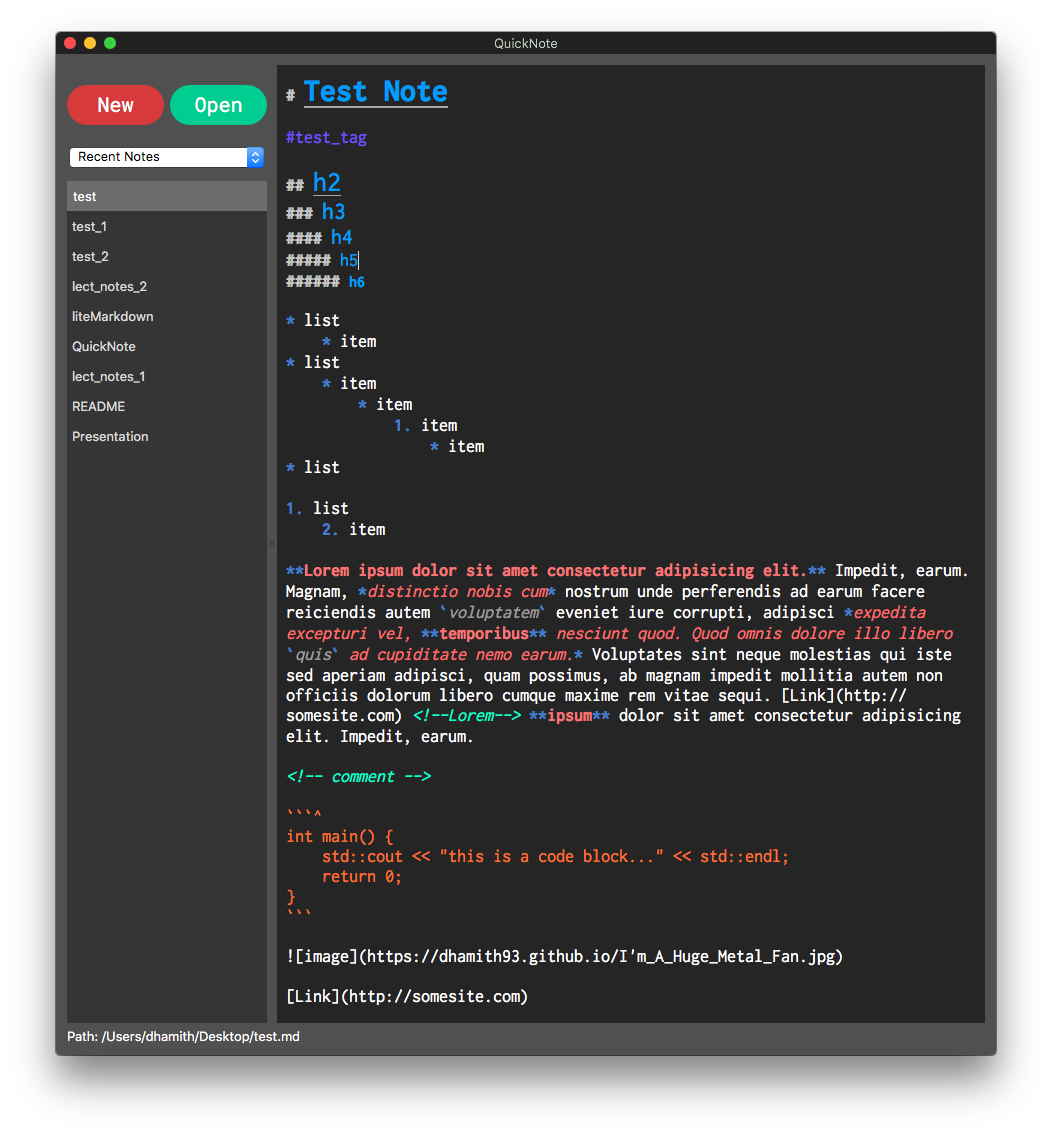
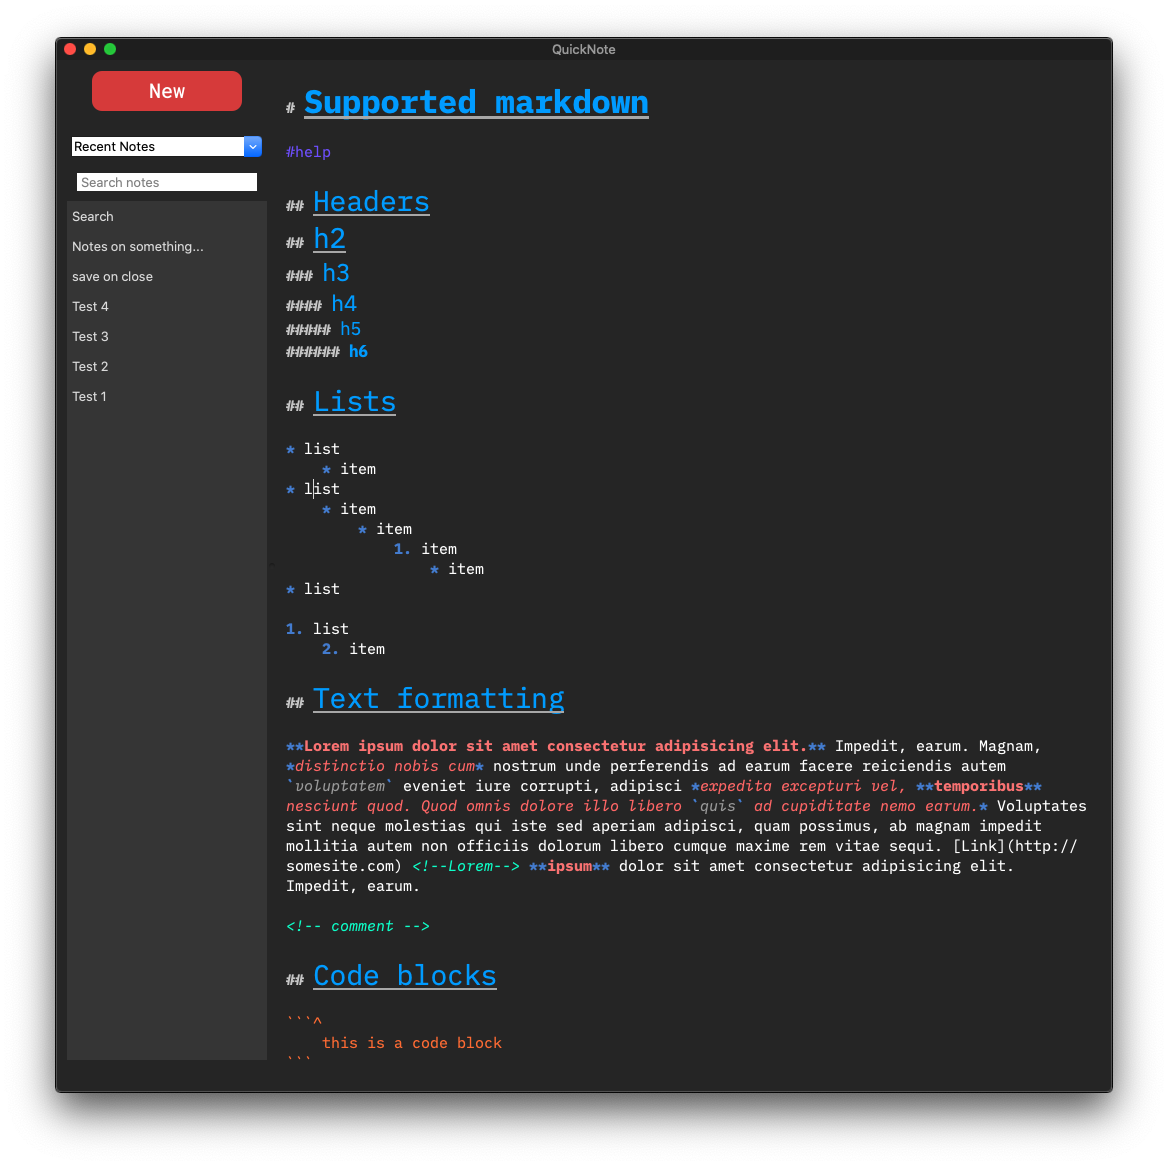
Dark UI new color. Readme update

Changed region(s): [[0.0304, 0.0, 0.9734, 0.9559], [0.3954, 0.37, 0.4563, 0.4009]]

diff --git a/src/mainwindow.cpp b/src/mainwindow.cpp
@@ -90,7 +90,7 @@ void MainWindow::init() {
     darkStyles = "QPlainTextEdit { padding: 5% 5% 0 5%; color: white; background-color: #252525; border:none; }";
     lightStyles = "QPlainTextEdit { padding: 5% 5% 0 5%; color: #454545; background-color: #FAFAFA; border:none; }";
 
-    this->setStyleSheet("QMainWindow { background-color: #505050; border: none; }");
+    this->setStyleSheet("QMainWindow { background-color: #252525; border: none; }");
     ui->splitter->setStretchFactor (0,0);
     ui->splitter->setStretchFactor (1,1);
     ui->splitter->setSizes(QList<int>() << 200 << 160000);

diff --git a/README.md b/README.md
@@ -18,9 +18,19 @@ QuickNote is a simple note app that uses subset of markdown syntax for formattin
 * Dark/Light modes
 * Word counter
 
+### Screenshots
+
+![](screenshots/MainWindow_dark.png)
+
+![](screenshots/MainWindow_light.png)
+
+![](screenshots/new_note_.png)
+
+
 ### Using lists
 Unordered or ordered list can be created using `* test` or numbering items like `10. test`. Sublists can be created with indentation (4 spaces OR 1 tab).
 Once the list is started, next items will get auto indented (and auto numbered if list is a ordered one) to the previous item's level and by pressing `SHIFT + TAB` the indentation can be reduced by one level. Pressing `ENTER` on a empty list item ends the list.
+
 #### Example 
 ```text
 * test
@@ -38,10 +48,3 @@ Once the list is started, next items will get auto indented (and auto numbered i
 3. test
 ```
 ![](screenshots/list_demo.gif)
-
-
-### Screenshots
-
-![](screenshots/MainWindow_dark.png)
-
-![](screenshots/MainWindow_light.png)
